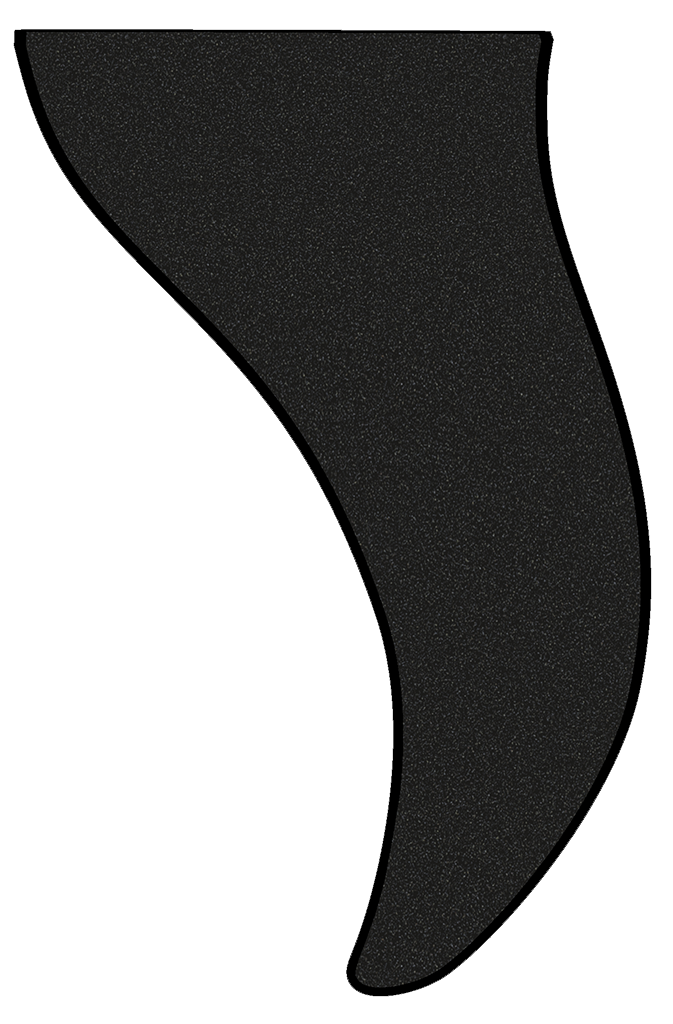
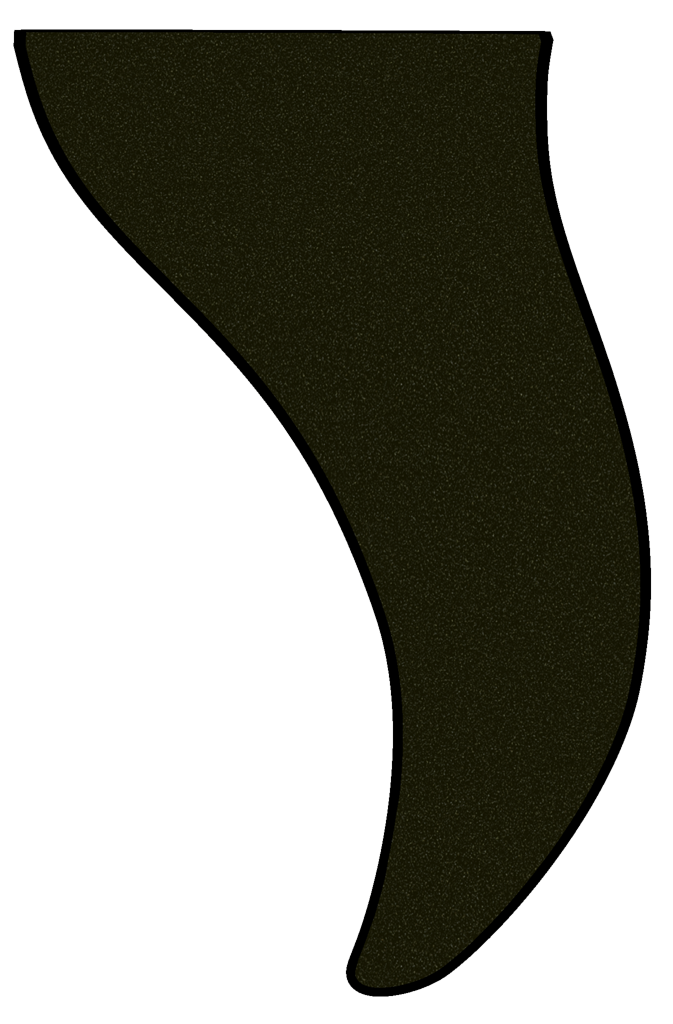
Tweaking...

Changed region(s): [[0.0312, 0.0312, 0.9673, 0.9688]]

diff --git a/AC Cover/Views/AC_CoverEmblemView.m b/AC Cover/Views/AC_CoverEmblemView.m
@@ -13,7 +13,7 @@
 #pragma mark - Consts
 /////////////////////////////////////////////////////////////////////////
 
-static const CGFloat _MAX_SHADOW_SIZE = 80;
+static const CGFloat _MAX_SHADOW_SIZE = 75;
 
 
 /////////////////////////////////////////////////////////////////////////
@@ -63,22 +63,21 @@ static const CGFloat _MAX_SHADOW_SIZE = 80;
 - (void)drawRect:(CGRect)rect
 {
     CGContextRef ctx = UIGraphicsGetCurrentContext();
-    
-    UIColor *outerShadowColor = [UIColor.blackColor colorWithAlphaComponent:0.9];
+
+    UIColor *outerShadowColor = [UIColor.blackColor colorWithAlphaComponent:1.0];
     UIColor *innerShadowColor = [UIColor.blackColor colorWithAlphaComponent:0.6];
     
     // Calc the shadow attribs based on the delta rotation
     CMQuaternion newRotation = _motionManager.deviceMotion.attitude.quaternion;
     
     CGSize outerShadowOffset = {
-        (newRotation.y - _initRotation.y) * _MAX_SHADOW_SIZE,
-        (newRotation.x - _initRotation.x) * _MAX_SHADOW_SIZE,
+        0,//(newRotation.y - _initRotation.y) * _MAX_SHADOW_SIZE,
+        0,//_MAX_SHADOW_SIZE/2,//(newRotation.x - _initRotation.x) * _MAX_SHADOW_SIZE,
     };
     CGSize innerShadowOffset = {
         (newRotation.y - _initRotation.y) * 10,
         (newRotation.x - _initRotation.x) * 10,
     };
-    
     
     CGRect circBounds = {
         _MAX_SHADOW_SIZE + 5,
@@ -88,7 +87,7 @@ static const CGFloat _MAX_SHADOW_SIZE = 80;
     };
     UIBezierPath *pth = [UIBezierPath bezierPathWithOvalInRect:circBounds];
     [[UIColor ac_yellowColor] setFill];
-    CGContextSetShadowWithColor(ctx, outerShadowOffset, _MAX_SHADOW_SIZE, outerShadowColor.CGColor);
+    CGContextSetShadowWithColor(ctx, outerShadowOffset, _MAX_SHADOW_SIZE*1.0, outerShadowColor.CGColor);
     [pth fill];
     
     

diff --git a/AC Cover/AC_CoverVC.m b/AC Cover/AC_CoverVC.m
@@ -27,6 +27,7 @@ static float shine=4.10;
     __weak IBOutlet UISegmentedControl *_paramSelector;
     __weak IBOutlet UITextView *_console;
 }
+- (IBAction)_togglePanels;
 
 @end
 
@@ -60,11 +61,11 @@ static float shine=4.10;
 
     [_emblemView setCenter:self.view.center];
     [self.view addSubview:_emblemView];
+    [_emblemView setNeedsDisplay];
     
     
     _updater = [CADisplayLink displayLinkWithTarget:self selector:@selector(_updateWithSender:)];
     [_updater addToRunLoop:[NSRunLoop mainRunLoop] forMode:NSRunLoopCommonModes];
-
 
     [self.view setMultipleTouchEnabled:YES];
     
@@ -92,10 +93,15 @@ static float shine=4.10;
 }
 #endif
 
+- (IBAction)_togglePanels
+{
+    _paramSelector.hidden = !_paramSelector.hidden;
+    _console.hidden = !_console.hidden;
+}
 
 - (void)_updateWithSender:(id)sender
 {
-    [_emblemView setNeedsDisplay];
+//    [_emblemView setNeedsDisplay];
 }
 
 
@@ -149,8 +155,8 @@ static float shine=4.10;
         case 1: // ATTENUATION
             // x = linear, y = quad
             if (touchIdx == 0) {
-                attnLin = nX*4;
-                attnQuad = nY*4;
+                attnLin = nX*20;
+                attnQuad = nY*20;
                 [coverView setUniform:@"u_attnLinear" withFloat:attnLin];
                 [coverView setUniform:@"u_attnQuad" withFloat:attnQuad];
                 

diff --git a/AC Cover/Views/AC_CoverView.m b/AC Cover/Views/AC_CoverView.m
@@ -44,8 +44,8 @@ static const NSUInteger BLADE_CNT = 2.0f * M_PI / BLADE_SEPARATION + 1;
 static const GLfloat BLADE_MAX_ROTATION = 60. * M_PI / 180.f;
 
 
-static const GLfloat BLADE_TILT = 0.f * M_PI / 180.0f;
-static const GLfloat BLADE_Z_OFFSET = -0.001;
+static const GLfloat BLADE_TILT = 0.5f * M_PI / 180.0f;
+static const GLfloat BLADE_Z_OFFSET = -0.00;
 
 
 static const GLfloat W = 0.644;     // reflect texture image dimentions / 1000
@@ -281,7 +281,7 @@ GLfloat _glCubeVertexData[48] =
         glUniform1i(_uniforms[tex_specular], 2);
 
         // Displacement tex
-        glActiveTexture(GL_TEXTURE2);
+        glActiveTexture(GL_TEXTURE3);
         glBindTexture(_bladeTexDisplacement.target, _bladeTexDisplacement.name);
         glUniform1i(_uniforms[tex_displacement], 3);
     }
@@ -477,9 +477,10 @@ skip:
         GLKMatrix4 normMatrix = GLKMatrix4InvertAndTranspose(vMatrix, NULL);
         glUniformMatrix4fv(_uniforms[V_norm], 1, 0, normMatrix.m);
        
-        glDrawArrays(GL_TRIANGLES, 0, 36);
+        glDrawArrays(GL_TRIANGLES, 0, 6);
     }
     
+    glBindVertexArrayOES(0);
 }
 
 
